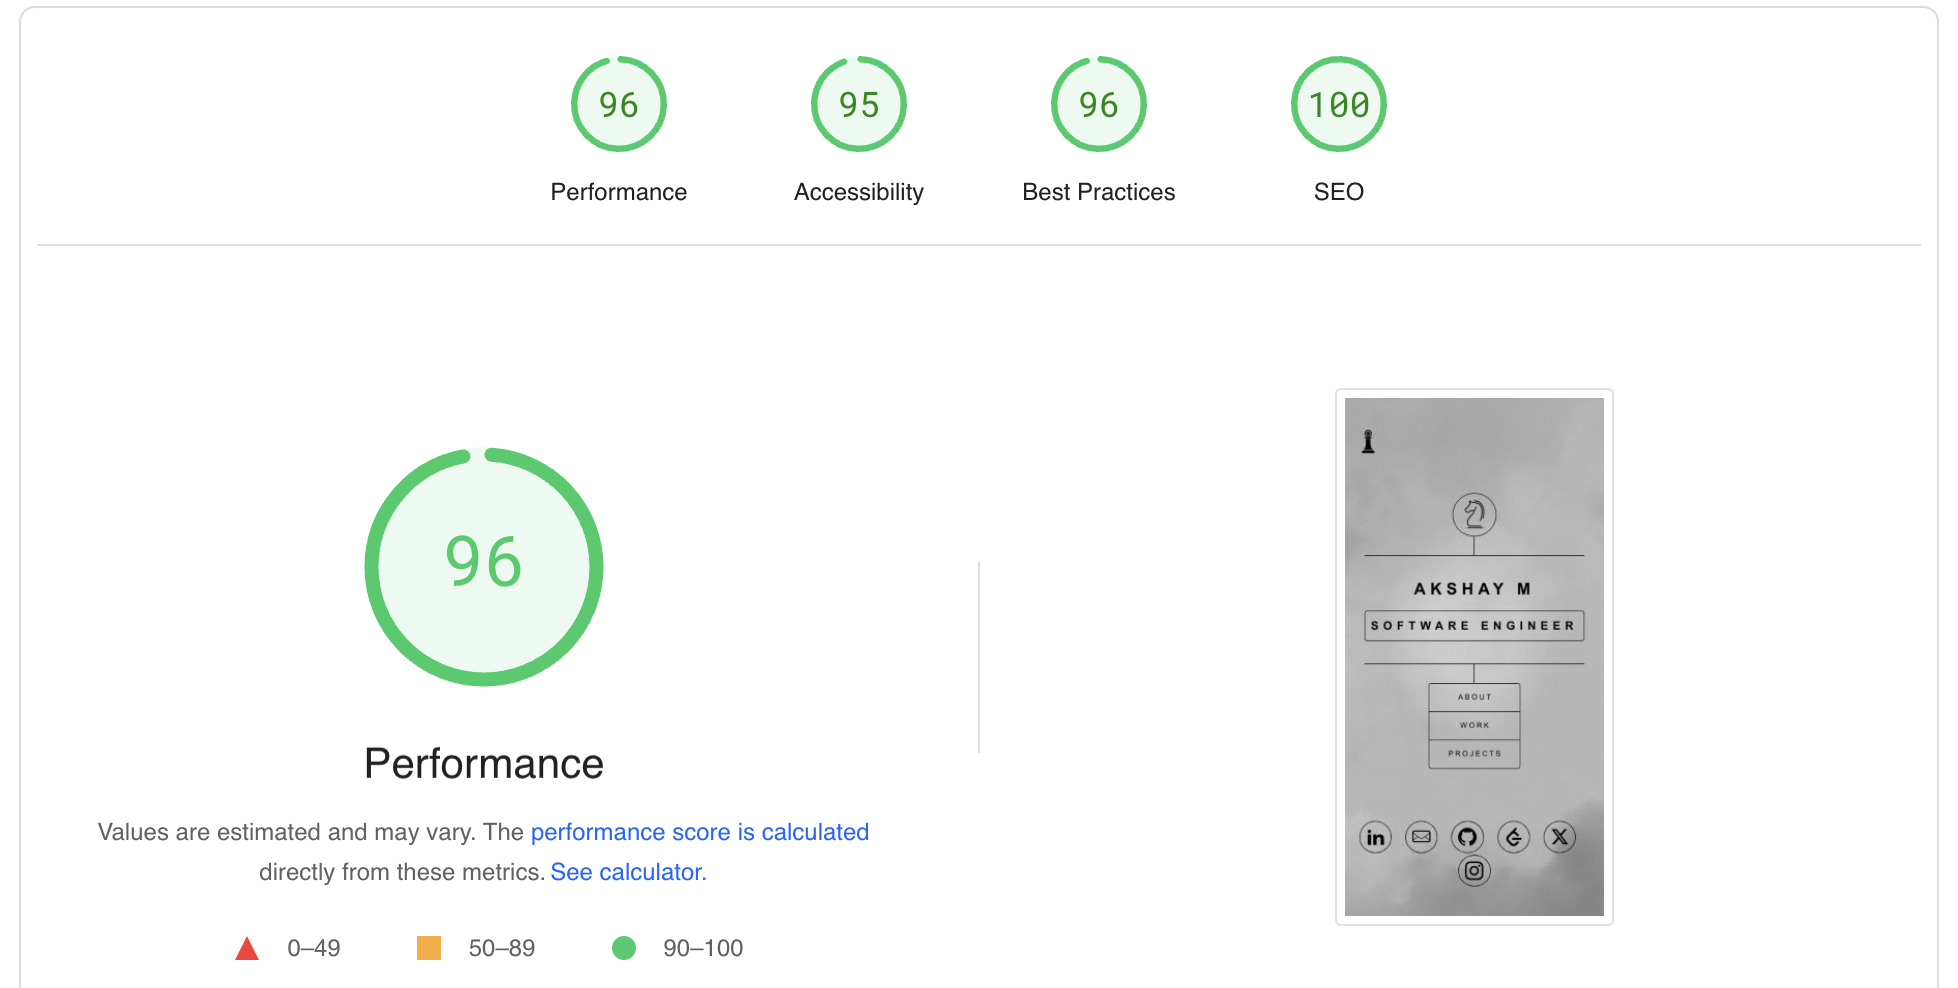
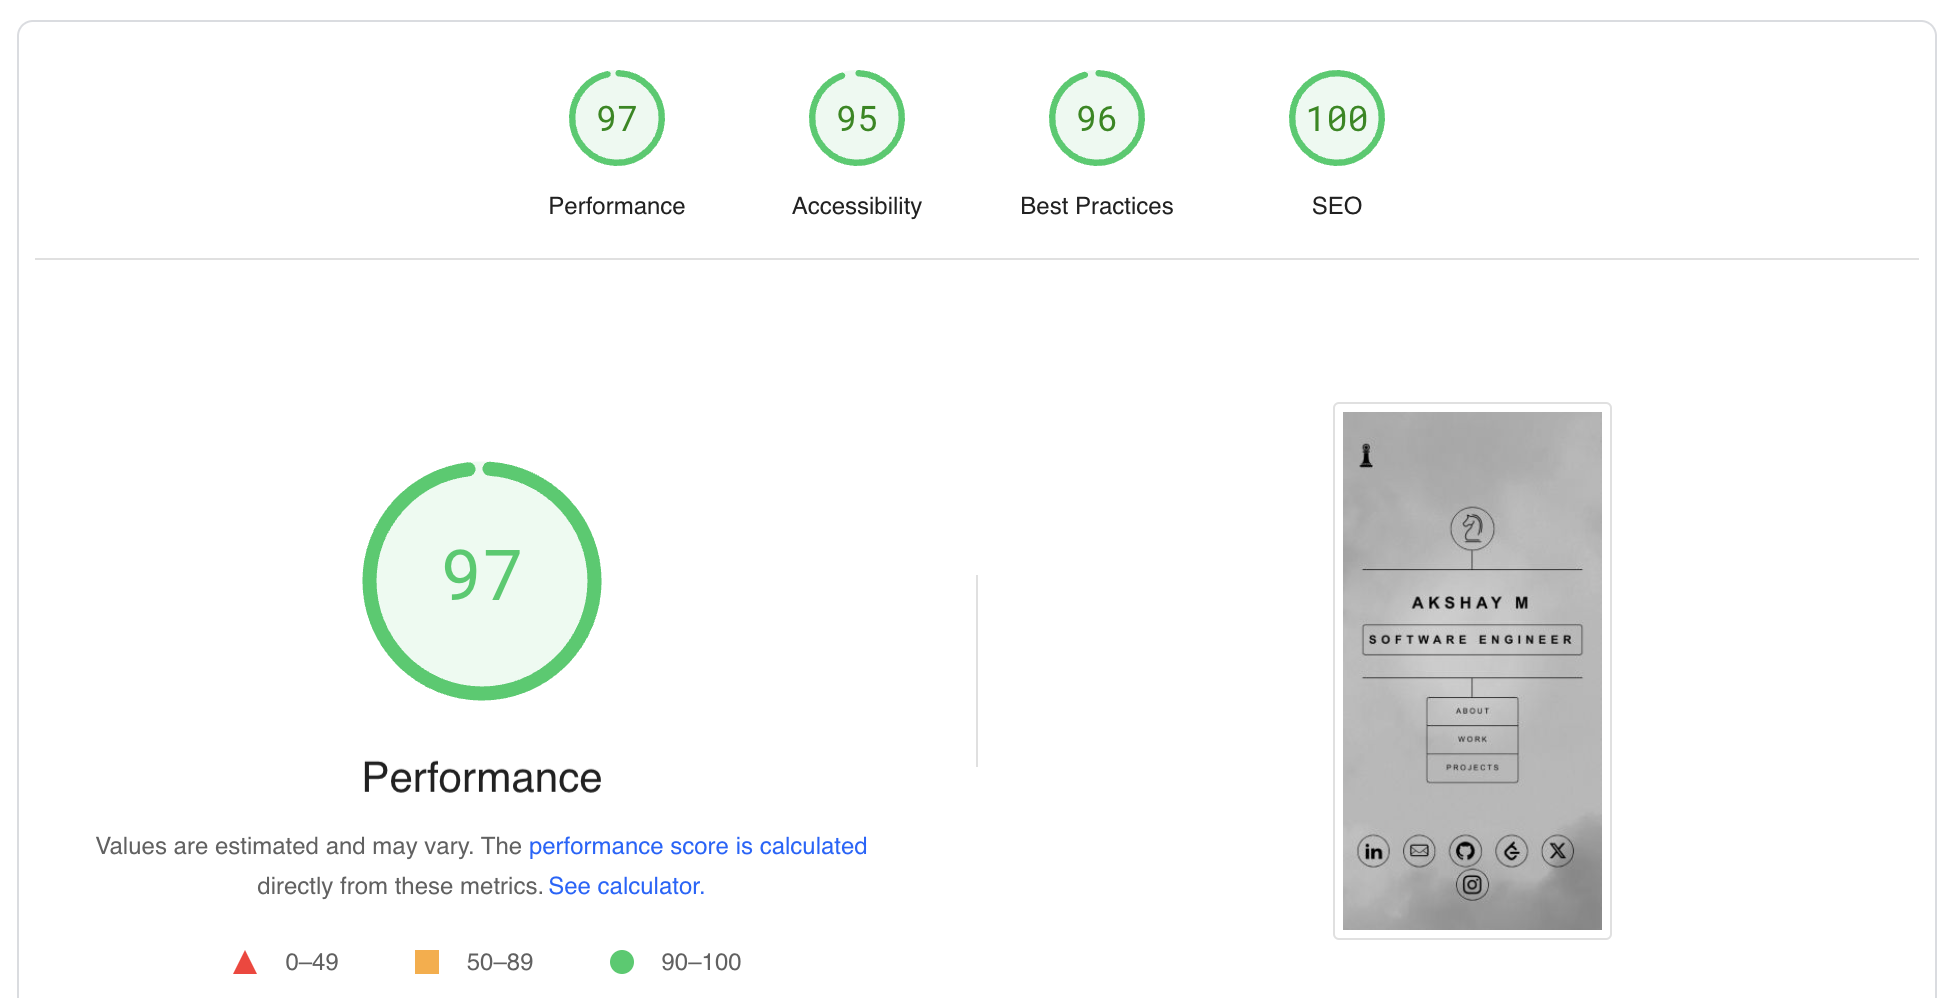
updated pagespeed

diff --git a/README.md b/README.md
@@ -9,7 +9,7 @@ Welcome to my personal portfolio project! This portfolio showcases my projects, 
 - Work Experience Section: Highlights my current and previous work experiences.
 - Social Handles: Links to my social handles
 - Light and Dark modes
-- Fast :zap: : Scores 96 on [Google PageSpeed Mobile](https://pagespeed.web.dev/analysis/https-akshayxml-github-io/0x47s7093y?form_factor=mobile) test and 98 on [Desktop](https://pagespeed.web.dev/analysis/https-akshayxml-github-io/0x47s7093y?form_factor=desktop)!
+- Fast :zap: : Scores 97 on [Google PageSpeed Mobile](https://pagespeed.web.dev/analysis/https-akshayxml-github-io/kwy0i26af3?form_factor=mobile) test and 98 on [Desktop](https://pagespeed.web.dev/analysis/https-akshayxml-github-io/kwy0i26af3?form_factor=desktop)!
 
 ## Technologies
 - Frontend: React, Gatsby
